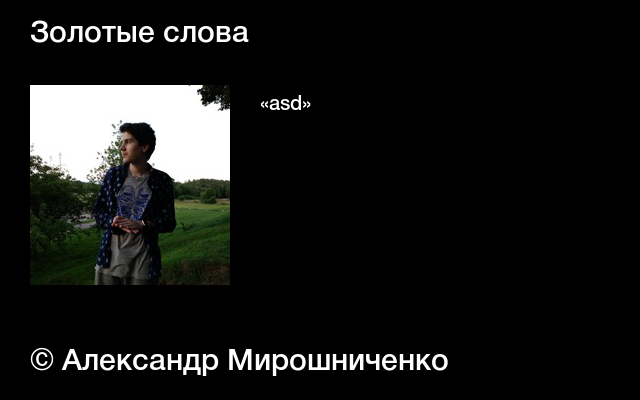
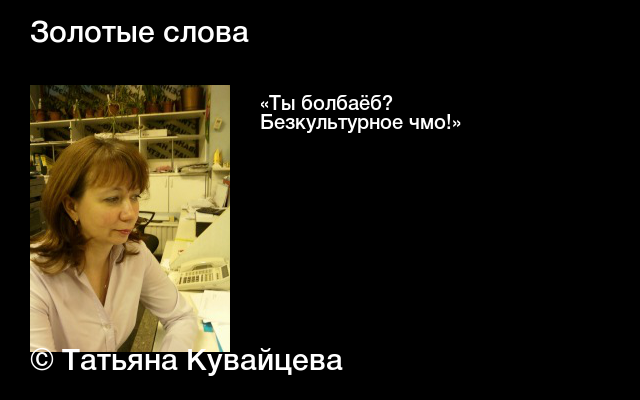
asd

Changed region(s): [[0.0312, 0.21, 0.7188, 0.96], [0.4062, 0.24, 0.7188, 0.33]]

diff --git a/index.js b/index.js
@@ -1049,15 +1049,13 @@ updates.hear('/citgen', async(context) => {
 			}
 			imagekek[i] = await api.users.get({
 				user_ids: context.forwards[i].senderId,
-				fields: 'photo_200',
+				fields: 'photo_200, photo_200_orig',
 				name_case: 'nom'
 			})
 		}
 
 
 		
-
-
 		var download = function(uri, filename, callback){
 			request.head(uri, function(err, res, body){
 			  console.log('content-type:', res.headers['content-type']);
@@ -1065,29 +1063,61 @@ updates.hear('/citgen', async(context) => {
 			  request(uri).pipe(fs.createWriteStream(filename)).on('close', callback);
 			});
 		};
+	
+		console.log(imagekek[0][0].photo_200)
+		console.log(imagekek[0][0].photo_200_orig)
 
-		download(imagekek[0][0].photo_200, 'ava.png', function(){
-			console.log('done');
-			gm(640,400, "#000000")
-			.fill('#FFFFFF')
-			.font('HelveticaNeue.ttf')
-			.fontSize(30)
-			.drawText(30,42, 'Золотые слова')
-			.in('-page', '+30+85')
-			.in('ava.png')
-			.fontSize(20)
-			.drawText(260,110,`«${text.join('\n')}»`)
-			.fontSize(30)
-			.drawText(30,370, `© ${imagekek[0][0].first_name} ${imagekek[0][0].last_name}`)
-			.mosaic() 
-			.write('rofl.png', async function(err) {
-			if(err) {
-				console.log(err)
-			}
-			await context.sendPhoto('rofl.png');
-			await fs.unlink('rofl.png');
-		})
-		});
+		
+	
+		if (imagekek[0][0].photo_200 === undefined ) {
+			download(imagekek[0][0].photo_200_orig, 'ava.png', function(){
+				console.log('done');
+				gm(640,400, "#000000")
+				.fill('#FFFFFF')
+				.font('HelveticaNeue.ttf')
+				.fontSize(30)
+				.drawText(30,42, 'Золотые слова')
+				.in('-page', '+30+85')
+				.in('ava.png')
+				.fontSize(20)
+				.drawText(260,110,`«${text.join('\n')}»`)
+				.fontSize(30)
+				.drawText(30,370, `© ${imagekek[0][0].first_name} ${imagekek[0][0].last_name}`)
+				.mosaic() 
+				.write('rofl.png', async function(err) {
+				if(err) {
+					console.log(err)
+				}
+				await context.sendPhoto('rofl.png');
+				await fs.unlink('rofl.png');
+			})
+			});
+		} else {
+			download(imagekek[0][0].photo_200, 'ava.png', function(){
+				console.log('done');
+				gm(640,400, "#000000")
+				.fill('#FFFFFF')
+				.font('HelveticaNeue.ttf')
+				.fontSize(30)
+				.drawText(30,42, 'Золотые слова')
+				.in('-page', '+30+85')
+				.in('ava.png')
+				.fontSize(20)
+				.drawText(260,110,`«${text.join('\n')}»`)
+				.fontSize(30)
+				.drawText(30,370, `© ${imagekek[0][0].first_name} ${imagekek[0][0].last_name}`)
+				.mosaic() 
+				.write('rofl.png', async function(err) {
+				if(err) {
+					console.log(err)
+				}
+				await context.sendPhoto('rofl.png');
+				await fs.unlink('rofl.png');
+			})
+			});
+		}
+
+		
 	} 
 	else {
 		await context.send('А че цитгенить то будем?')
